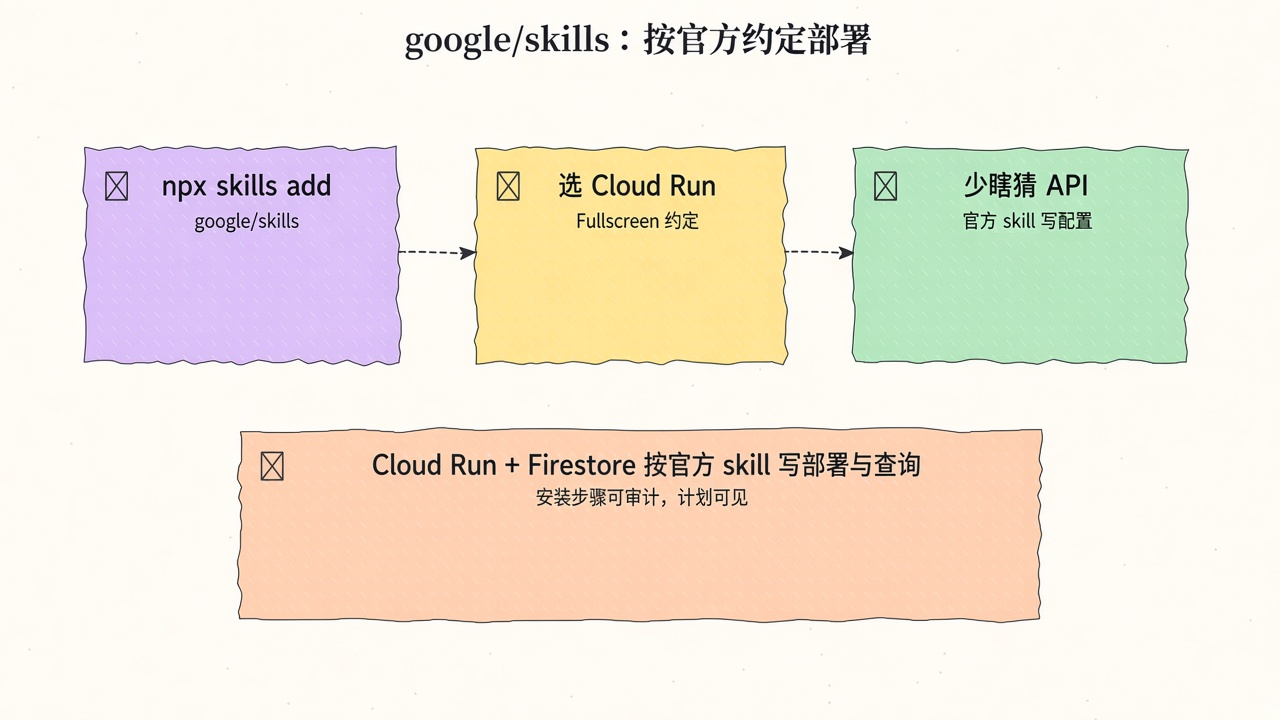
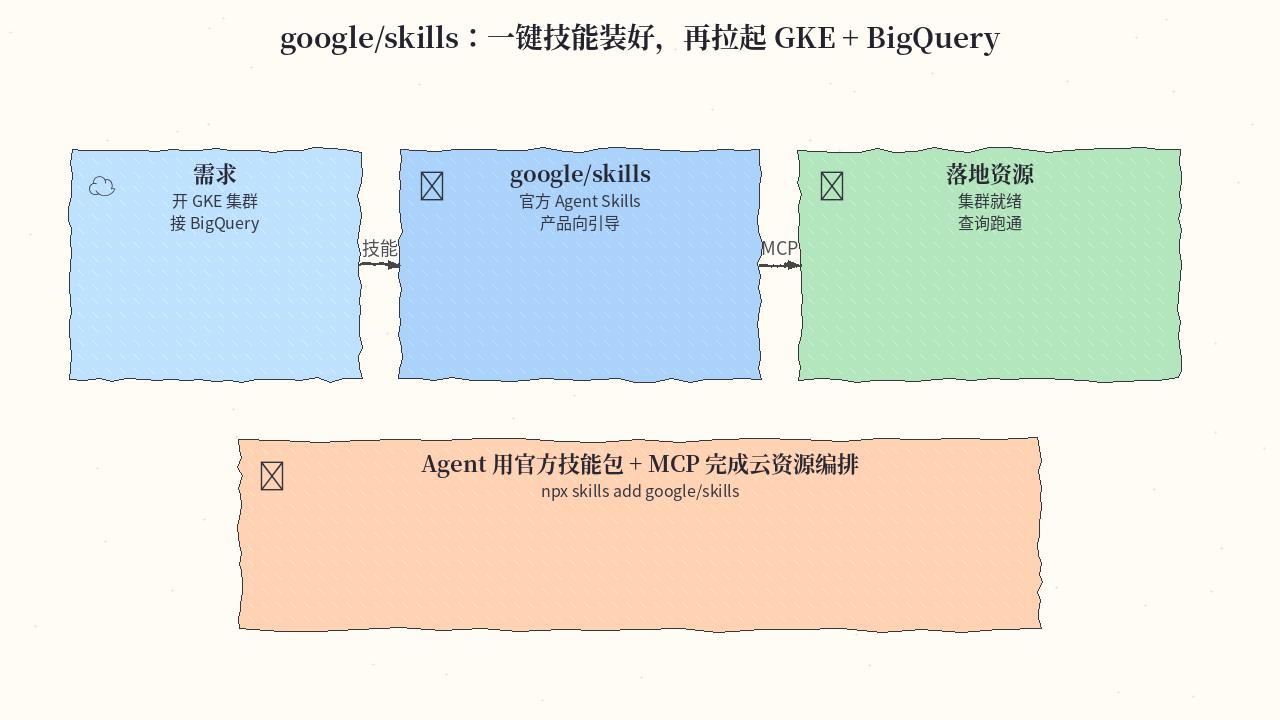
content(skills): 2026-11-09 daily

diff --git a/content/skills/2026-11-09 daily.md b/content/skills/2026-11-09 daily.md
@@ -1,0 +1,81 @@
+---
+bot: skills-daily
+title: 2026-11-09 Skills 日报
+date: 2026-11-09
+source: grok-bot
+---
+
+# 2026-11-09 Skills 日报
+
+今日三条：Google 官方云技能包、Anthropic 公开 Skills 规范仓、以及 Garry Tan 的 gstack 角色工厂。
+
+## 1. google/skills — Google Cloud / 产品官方 Agent Skills
+
+**介绍**  
+google/skills 是 Google 产品与技术的官方 Agent Skills 集合，覆盖云侧配置与 MCP 相关能力，可按菜单挑选安装范围。约 23.7k★。
+
+**用法**  
+仓库：[github.com/google/skills](https://github.com/google/skills)。skills.sh：[skills.sh/google/skills](https://skills.sh/google/skills)。
+
+```bash
+npx skills add google/skills
+# 之后按提示选择技能与安装范围（project / global）
+npx skills update
+```
+
+**应用场景**  
+Agent 按官方技能引导拉起 GKE，并接好 BigQuery 查询链路。
+
+![google-skills 应用场景示意](./assets/2026-11-09/google-skills.png)
+
+**推荐学习程度**：入门
+
+---
+
+## 2. anthropics/skills — 公开 Agent Skills 仓 + 规范/模板
+
+**介绍**  
+anthropics/skills 是 Anthropic 的公开 Agent Skills 仓库：含示例、规范指向（agentskills.io）以及 document-skills 等文档能力参考实现，方便团队 fork 成自己的标准。约 190k★。
+
+**用法**  
+仓库：[github.com/anthropics/skills](https://github.com/anthropics/skills)。
+
+```bash
+# Claude Code：注册 marketplace 后安装，或直接：
+/plugin install document-skills@anthropic-agent-skills
+/plugin install example-skills@anthropic-agent-skills
+# 也可用 npx skills / 仓库内 SKILL.md 模板自行 fork
+```
+
+**应用场景**  
+团队 fork 模板，做成品牌标准的 docx/pdf 排版 skill，交付物统一页眉、字体与样式。
+
+![anthropics-skills 应用场景示意](./assets/2026-11-09/anthropics-skills.png)
+
+**推荐学习程度**：入门
+
+---
+
+## 3. garrytan/gstack — Garry Tan 的 Claude Code「虚拟工程团队」
+
+**介绍**  
+gstack 把 Claude Code（及其他 coding agent）变成角色工厂：CEO / EM / Designer / QA / Release 等 slash skills，串起 Think→Plan→Build→Review→Test→Ship。需要 Bun；MIT。约 141k★。
+
+**用法**  
+仓库：[github.com/garrytan/gstack](https://github.com/garrytan/gstack)。依赖 Claude Code + Git + Bun（文档要求约 v1.4.2+）。
+
+```bash
+git clone --single-branch --depth 1 https://github.com/garrytan/gstack.git ~/.claude/skills/gstack
+cd ~/.claude/skills/gstack && ./setup
+# 其他 agent：./setup --host <name> 或看 ./setup --status
+# 团队模式见仓库：./setup --team
+```
+
+**应用场景**  
+创始人在一条 PR 上跑完整链：Think→Plan→Build→Review→Test→Ship，角色切换靠 slash skills。
+
+![gstack 应用场景示意](./assets/2026-11-09/gstack.png)
+
+**推荐学习程度**：进阶
+
+---
